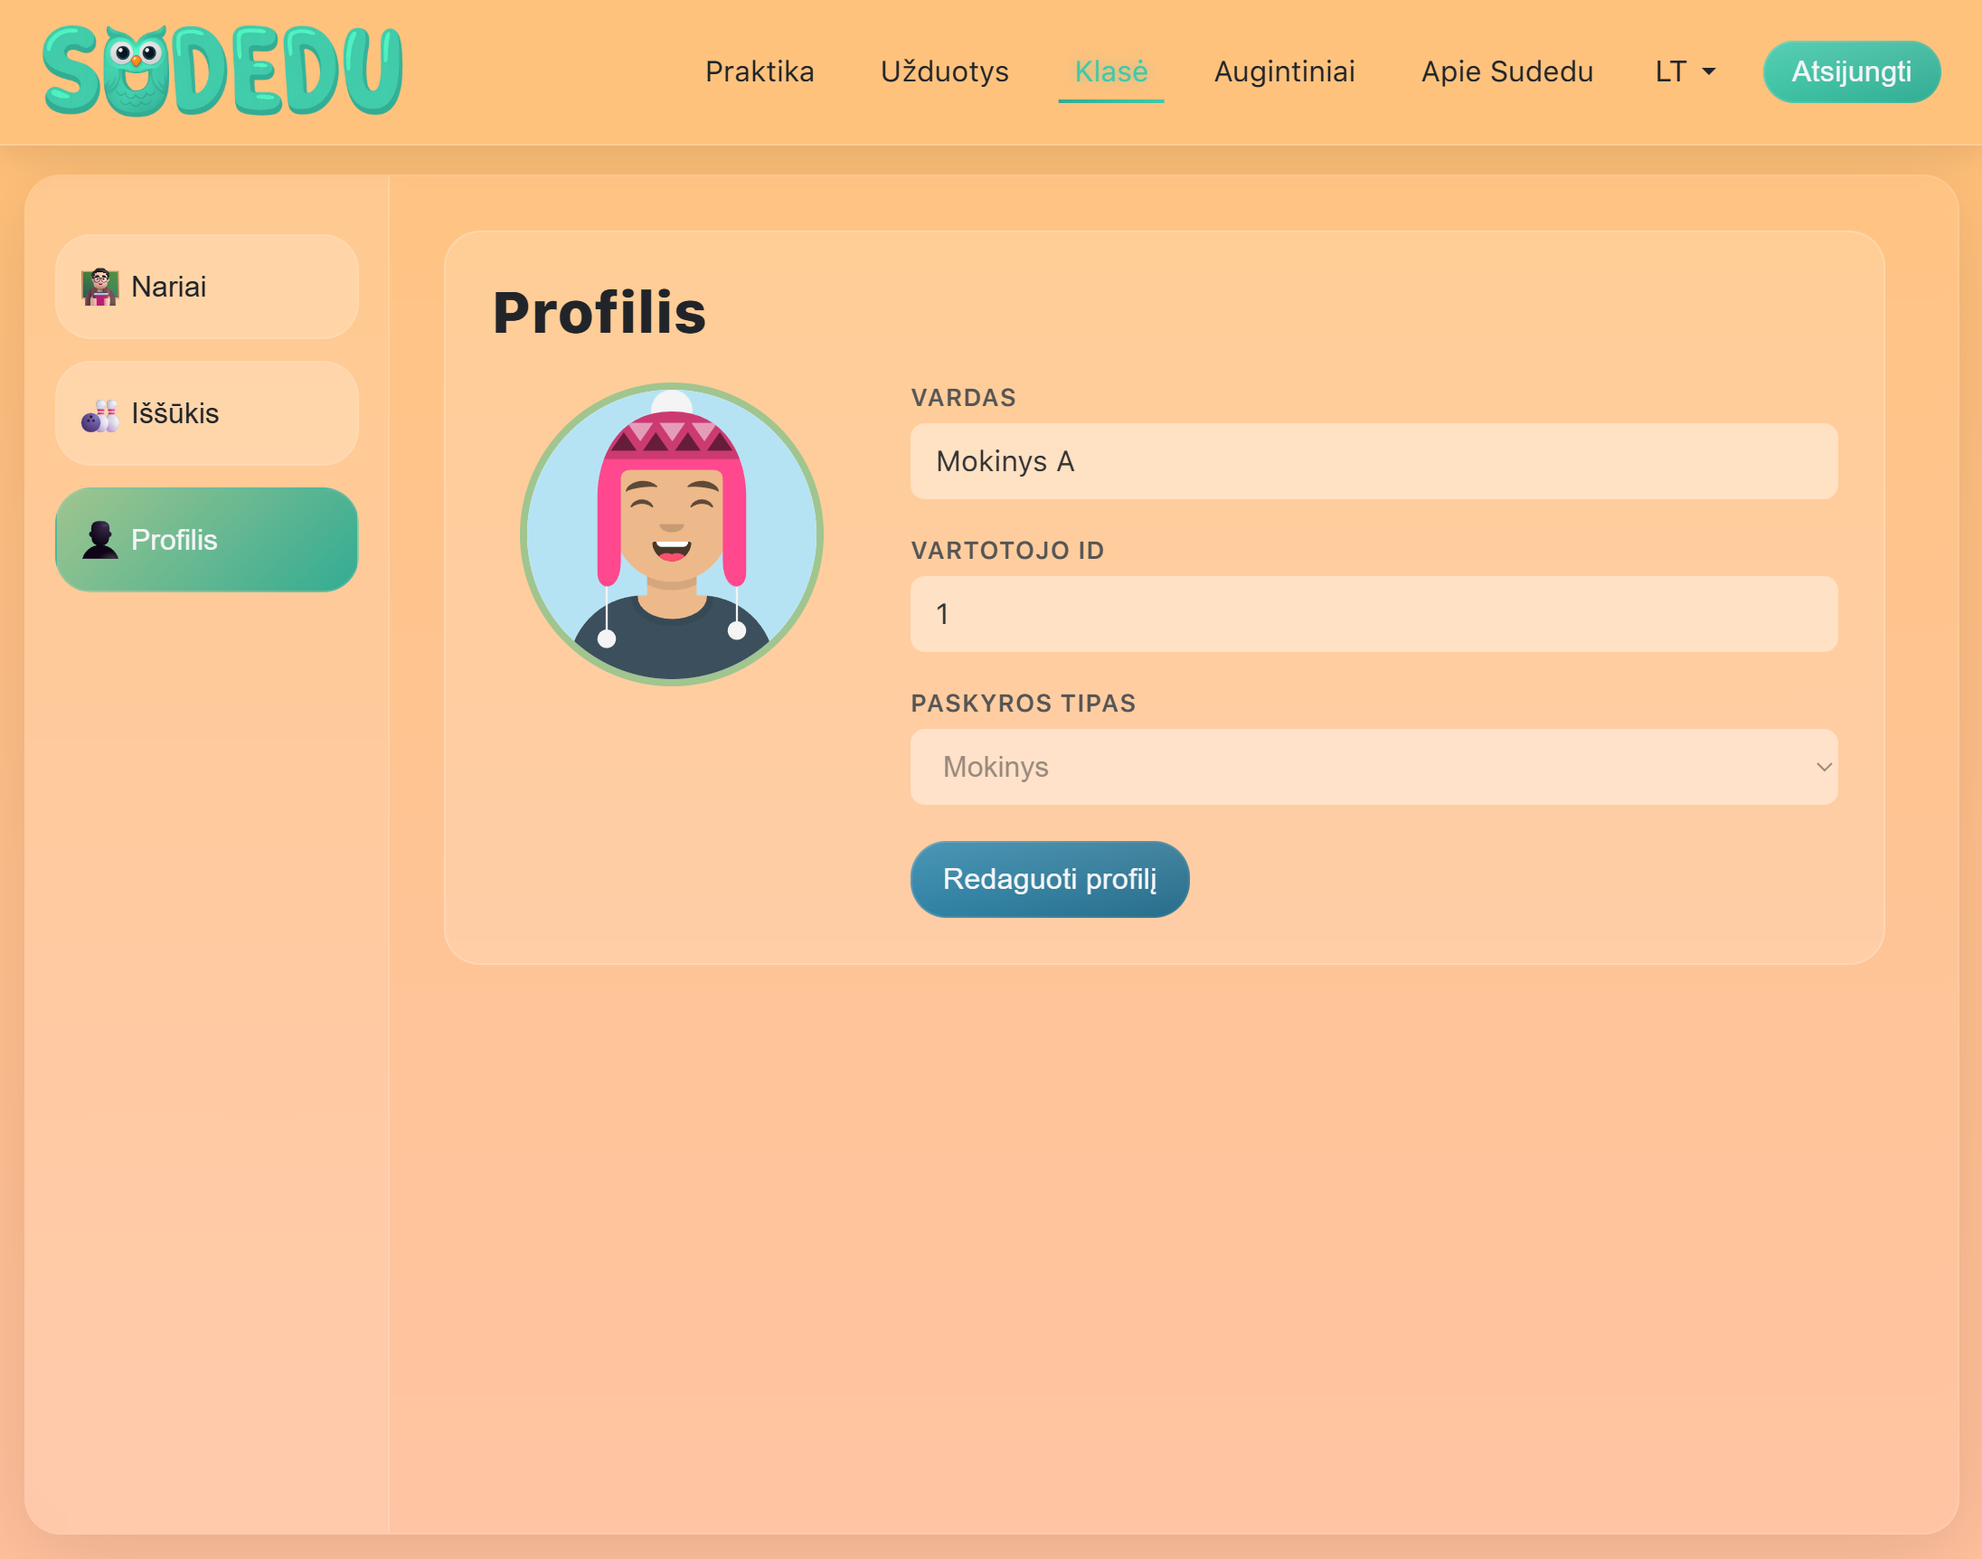
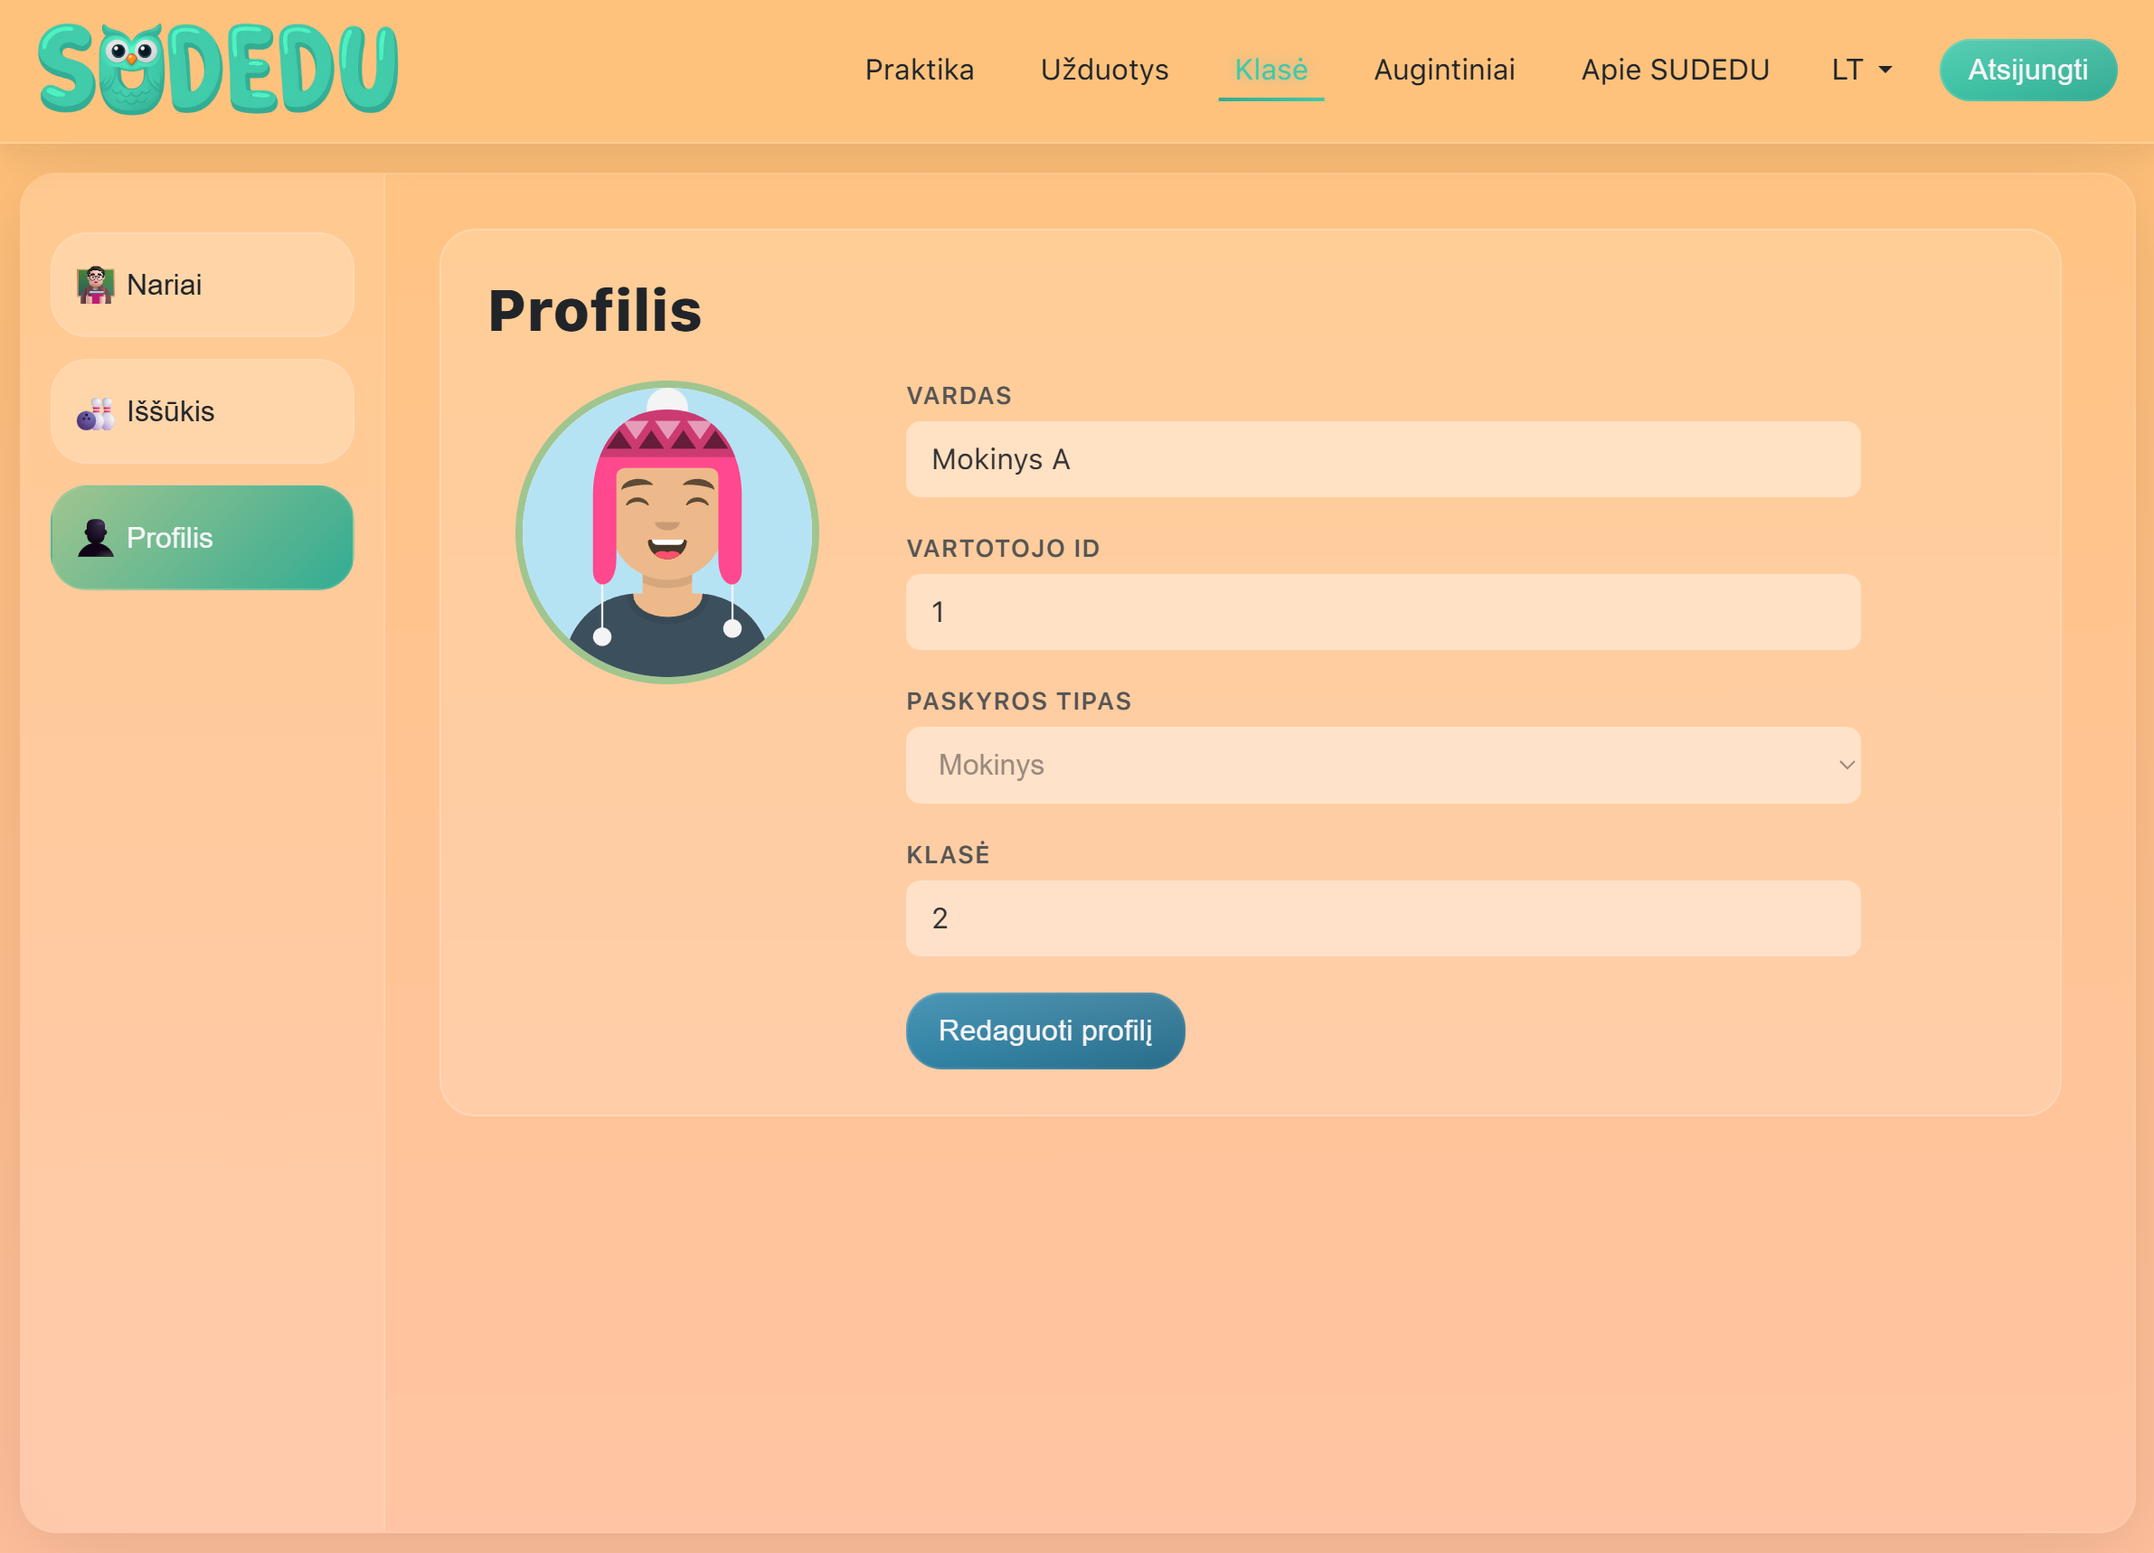
4

diff --git a/LT/index.html b/LT/index.html
@@ -1247,7 +1247,22 @@ body.popup-active {
     </nav>
 
 
-	<div class="container" id="template-container" hidden>		
+	<div class="container" id="template-container" hidden>	
+        <div class="class-popup-modal" id="classPopupLoggedInClassConfirmation2">
+			<div class="class-popup-content">
+                <select class="class-options" id="classLoggedInClassSelect2">
+                    <option value="" selected disabled>Patvirtink savo klasę</option>
+                    <option value="0">Priešmokyklinė</option>
+                    <option value="1">1 klasė</option>
+                    <option value="2">2 klasė</option>
+                    <option value="3">3 klasė</option>
+                    <option value="4">4 klasė</option>
+                    <option value="5">Aukštesnė</option>
+                </select>
+                <button class="class-popup-button" id="classPopupLoggedInClassConfirmation2Button" disabled>Pirmyn!</button>
+			</div>
+		</div>
+        	
         <div class="class-popup-modal" id="classPopupLoggedInClassConfirmation">
 			<div class="class-popup-content">
                 <select class="class-options" id="classLoggedInClassSelect">
@@ -1749,6 +1764,22 @@ body.popup-active {
         	controller.modeChoice4 = modeChoice4Element.value
 			localStorage.setItem('controller', JSON.stringify(controller))
 
+            if (controller.modeChoice2 === "C8" && 
+                (
+                    userData.knowledgeLvl === 2 || 
+                    userData.knowledgeLvl === 3 || 
+                    userData.knowledgeLvl === 4 || 
+                    userData.knowledgeLvl === 5
+                )
+            ) {
+                const confirmedRecently = getClassConfirmationLocalStorage()
+
+                if (!confirmedRecently) {
+                    showClassPopupLoggedInClassConfirmation2();
+                    return
+                }
+            }
+
 			if (controller.modeChoice4 === "C39") {
 				startQuestionsTimer()
 			} else if (controller.modeChoice4 = "C40") {
@@ -1805,22 +1836,22 @@ body.popup-active {
 //POPUP SCRIPT START
 
 // Function to set value in localStorage with expiration
-function setClassLocalStorage(classValue) {
+function setClassConfirmationLocalStorage() {
     const now = new Date();
     // Set expiration to 2 months from now
     const expiration = new Date(now.setMonth(now.getMonth() + 2));
     
     const item = {
-        value: classValue,
+        value: true,
         expiration: expiration.getTime()
     };
     
-    localStorage.setItem("userClassNotLoggedIn", JSON.stringify(item));
+    localStorage.setItem("userClassConfirmed", JSON.stringify(item));
 }
 
 // Function to get value from localStorage and check expiration
-function getClassLocalStorage() {
-    const itemStr = localStorage.getItem("userClassNotLoggedIn");
+function getClassConfirmationLocalStorage() {
+    const itemStr = localStorage.getItem("userClassConfirmed");
     
     // If the item doesn't exist, return null
     if (!itemStr) {
@@ -1833,11 +1864,54 @@ function getClassLocalStorage() {
     // Compare the expiration time with the current time
     if (now.getTime() > item.expiration) {
         // If the item is expired, delete it and return null
-        localStorage.removeItem("userClassNotLoggedIn");
+        localStorage.removeItem("userClassConfirmed");
         return null;
     }
     
     return item.value;
+}
+
+function showClassPopupLoggedInClassConfirmation2() {
+    const popup = document.getElementById('classPopupLoggedInClassConfirmation2');
+    const nextButton = document.getElementById('classPopupLoggedInClassConfirmation2Button');
+    const classSelect = document.getElementById('classLoggedInClassSelect2');
+    let selectedClass = null;
+
+    // Show popup
+    popup.classList.add('active');
+    document.body.classList.add('popup-active');
+
+    // Disable Next button initially
+    nextButton.disabled = true;
+
+    // Listen for changes in the dropdown
+    classSelect.addEventListener('change', function() {
+        selectedClass = Number(this.value);
+        nextButton.disabled = this.value === ""; // enable only if a real option is selected
+    });
+
+    // Next button click
+    nextButton.addEventListener('click', async function() {
+        if (selectedClass !== null && selectedClass !== undefined) {
+            // Set localStorage with selected class and expiration
+            setClassConfirmationLocalStorage();
+
+            userClass = selectedClass;
+
+            if (userData) {
+                updateUserClass(userClass);
+                userData.knowledgeLvl = userClass;
+                localStorage.setItem('userData', JSON.stringify(userData));
+            }
+
+            // Close popup
+            popup.classList.remove('active');
+            document.body.classList.remove('popup-active');
+
+            await displayPersonalChl();
+            displayCustomTaskPotentialEarnings();
+        }
+    });
 }
 
 function showClassPopupLoggedInClassConfirmation() {
@@ -1914,6 +1988,13 @@ async function updateUserClass (userClassSelection) {
 //POPUP SCRIPT END
       
 const messagesToUsers = [
+        {
+            title: "Patikrinkite savo / mokinių klasę",
+            text: `⚠ LABAI SVARBU: pasitikrinkite, ar pasirinkote teisingą klasę!`,
+            fullText: `Savo klasę mokiniai gali patikrinti puslapyje „KLASĖ“, skiltyje „PROFILIS“. Jei klasė nurodyta neteisingai, pasakykite savo mokytojui arba parašykite mums el. laišką. Mokytojai gali patikrinti mokinių klasę (žinių lygį) puslapyje „UŽDUOTYS“, paspaudę ant mokinio vardo. Pastebėjome, kad didelė dalis 2, 3 ir 4 klasių mokinių dažnai atlieka sudėties iki 10 užduotis, o tai gali reikšti, kad mokiniams yra neteisingai nustatyta klasė. Teisingas klasės pasirinkimas yra svarbus mokinio taškų ir uždarbio (SUDEDU monetų) skaičiavimui (plačiau <a href="apie.html#ziniu-lygis">čia</a>).`,
+            date: "2026-01-13",
+            target: ["all"]
+        },
         {   
             title: "Patvitinkite naujas paskyras",
             text: `❗❗❗Visos paskyros sukurtos po 2026 metų sausio 1 d. ir nepatvirtintos iki 2026 metų sausio 18 d. bus ištrintos!`,
@@ -2705,7 +2786,7 @@ async function displayPersonalChl() {
     const indicatorsContainer = document.getElementById('chlIndicators');
     const prevBtn = document.getElementById('chlNavPrev');
     const nextBtn = document.getElementById('chlNavNext');
-    const userClass = userData?.knowledgeLvl ?? getClassLocalStorage() ?? 2; // 0 (for priesmokykline) is treated as faulty unless ?? is used instead of ||
+    const userClass = userData?.knowledgeLvl ?? 2; // 0 (for priesmokykline) is treated as faulty unless ?? is used instead of ||
 
     if (!personalChlDict[userClass][getLithuanianSchoolPeriod()]) {
         displayArea.innerHTML = '<p style="text-align: center; color: rgba(0,0,0,0.5);">Nėra prieinamų iššūkių</p>';
@@ -3087,8 +3168,6 @@ window.addEventListener('resize', checkWrap);
 window.addEventListener('load', checkWrap);
 
 async function handleKnowledgeLvlStatus () {
-    const knowledgeLvlStatus = getClassLocalStorage();
-
     if (userData) {
         if (userData.knowledgeLvl != null && userData.knowledgeLvl !== -1) {
             if (userData.accType !== "teacher" && userData.accType !== "admin") {

diff --git a/LT/admin.html b/LT/admin.html
@@ -1109,8 +1109,15 @@
 
                 <div class="operation-card">
                     <h3>🚫 Delete Never Logged In Users</h3>
+                    <div class="form-group">
+                        <label for="never-logged-days">Minimum Account Age (Days)</label>
+                        <input type="number" id="never-logged-days" placeholder="e.g., 30" min="1" value="30">
+                        <small style="color: #666; display: block; margin-top: 5px;">
+                            Only delete accounts that were created this many days ago or earlier. Accounts created more recently will be kept.
+                        </small>
+                    </div>
                     <p style="color: #666; margin-bottom: 15px;">
-                        Delete all user accounts that have never logged in (lastLogIn is null). Admin accounts will not be deleted.
+                        Delete user accounts that have never logged in and are older than the specified number of days. Admin accounts will not be deleted.
                     </p>
                     <div id="never-logged-message"></div>
                     <button class="btn btn-danger" onclick="deleteNeverLoggedInUsers()">Delete Never Logged In Users</button>
@@ -2526,9 +2533,15 @@
             }
         }
 
-        // Delete users who never logged in
+        // Delete users who never logged in (with age threshold)
         async function deleteNeverLoggedInUsers() {
-            if (!confirm(`Delete ALL users who have NEVER logged in?\n\nThis action cannot be undone.\nAdmin accounts will not be deleted.`)) return;
+            const days = document.getElementById('never-logged-days').value;
+            if (!days || days < 1) {
+                showMessage('never-logged-message', 'Please enter a valid number of days', 'error');
+                return;
+            }
+
+            if (!confirm(`Delete all users who have NEVER logged in and whose accounts are ${days}+ days old?\n\nThis action cannot be undone.\nAdmin accounts will not be deleted.\nAccounts created within the last ${days} days will be kept.`)) return;
 
             // Show initial loading message
             showMessage('never-logged-message', 
@@ -2537,7 +2550,7 @@
             );
 
             try {
-                const response = await apiFetch(`${apiBase}admin/never-logged-in`, {
+                const response = await apiFetch(`${apiBase}admin/never-logged-in?olderThanDays=${days}`, {
                     method: 'DELETE',
                     headers: { 'Content-Type': 'application/json' }
                 });
@@ -2552,7 +2565,8 @@
                 let message = `✅ Deletion complete!<br><br>` +
                             `Deleted: ${data.deletedCount} users<br>` +
                             `Failed: ${data.failedCount} users<br>` +
-                            `Total processed: ${data.totalProcessed} users`;
+                            `Total processed: ${data.totalProcessed} users<br>` +
+                            `Age threshold: ${data.daysThreshold} days`;
                 
                 if (data.failedUsers && data.failedUsers.length > 0) {
                     message += `<br><br>⚠ ${data.warning}`;
@@ -2564,7 +2578,6 @@
                 showMessage('never-logged-message', `❌ Error: ${error.message}`, 'error');
             }
         }
-
         // Send gift
         async function sendGift() {
             const itemId = parseInt(document.getElementById('gift-itemid').value);

diff --git a/LT/klase.html b/LT/klase.html
@@ -1973,6 +1973,11 @@
                                     <option value="teacher">Mokytojas</option>
                                 </select>
                             </div>
+
+                            <div class="field" id="knowledge-level-display" style="display: none;">
+                                <label class="user-info-section-label">Klasė</label>
+                                <div class="field-display" id="userClassDisplay"></div>
+                            </div>
                             
                             <div class="action-buttons">
                                 <button class="edit-btn" id="editBtn">Redaguoti profilį</button>
@@ -2368,6 +2373,11 @@
             document.getElementById('nameDisplay').textContent = userData.nickname || 'Nepavadinta';
             document.getElementById('fullName').value = userData.nickname || '';
             document.getElementById('userIdDisplay').textContent = userData.userId || '';
+            document.getElementById('userClassDisplay').textContent = userData.knowledgeLvl || '';
+
+            if (userData.accType === "student") {
+                document.getElementById('knowledge-level-display').style.display = "flex";
+            }
 
             // Set account type
             const accountSelect = document.getElementById('accountTypeSelect');

diff --git a/mental-arithmetic.js b/mental-arithmetic.js
@@ -3377,6 +3377,7 @@ function getOptionTextFromValues(values, taskDuration, forTeacher = false) {
                     final_results.push(parameterDictionary[values[5]]["decodedParameterText"]);
                     final_results.push(parameterDictionary[values[6]]["decodedParameterText"]);
                 }
+                final_results.push(parameterDictionary[values[3]]["decodedParameterText"]);
                 final_results.push(determineQuestionNumberTimeLabelEnding(taskDuration[0], taskDuration[1]));
             } else if (values[4] === "C84") {
                 if (forTeacher) {
@@ -3391,10 +3392,13 @@ function getOptionTextFromValues(values, taskDuration, forTeacher = false) {
 
                     outerDiv.innerHTML = htmlItems;
                     final_results.push(outerDiv.outerHTML);
+                    final_results.push(parameterDictionary[values[3]]["decodedParameterText"]);
                 } else {
+                    final_results.push(parameterDictionary[values[3]]["decodedParameterText"]);
                     final_results.push(determineQuestionNumberTimeLabelEnding(taskDuration[0], taskDuration[1].length.toString()));
                 }
             }
+
         } else if (result[0] === "GRAMATIKA") {
           final_results.push(result[2]);
           if (result[1] === "RAŠYBA") {

diff --git a/LT/apie.html b/LT/apie.html
@@ -1732,8 +1732,12 @@
                     
                     <div id="profilis" class="section-header">Profilis</div>
                     <p>
-                        Šioje skiltyje mokiniai bei moytojai gali rasti savo paskyros ID numerį ir pakeisti vartotojo vardą. 
-                        Mokiniai taip pat gali pakeisti savo avataro – matomo mokytojo ir klasės draugų – išvaizdą.
+                        Šioje skiltyje mokiniai ir mokytojai gali rasti savo paskyros ID numerį bei pakeisti vartotojo vardą. 
+                        Mokiniai gali pakeisti savo avataro – matomo mokytojui ir klasės draugams – išvaizdą, taip pat peržiūrėti 
+                        savo klasę. Jei klasė nurodyta neteisingai, ją gali pakeisti mokytojas (mokiniams besimokantiems pagal pritaikytą 
+                        programą, nustatyta klasė gali neatitikti jų dabartinės klasės). Mokiniai, kurių paskyros nėra susietos 
+                        su mokytoju, gali pakeisti savo klasę atsiuntę mums prašymą 
+                        el. paštu <a href="mailto:sudedult@gmail.com">sudedult@gmail.com</a>.
                     </p>
                     
                     <div class="image-div">
